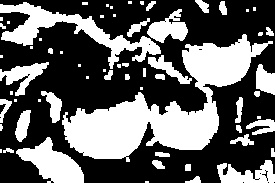
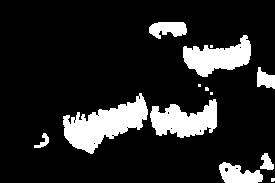
doing with bgr color space, acceptable

diff --git a/main.py b/main.py
@@ -30,30 +30,25 @@ for file in files:
         img = cv2.imread(os.path.join(input_path, file))
         if img is not None :
             # Select ROI
-            img_hsv = cv2.cvtColor(img, cv2.COLOR_BGR2HSV)
-            # img_hsv = img
-            r = cv2.selectROI(img_hsv)
+            r = cv2.selectROI(img)
             # Crop image
-            imCrop = img_hsv[int(r[1]):int(r[1] + r[3]), int(r[0]):int(r[0] + r[2])]
-            # 只取hue, saturation
-            img_hs = img_hsv[:, :, 0:2]
-            roi_hs = imCrop[:, :, 0:2]
-            average = average_of_image(roi_hs)
+            imCrop = img[int(r[1]):int(r[1] + r[3]), int(r[0]):int(r[0] + r[2])]
+            average = average_of_image(imCrop)
 
-            rows, cols, _ = img_hs.shape
-            output = np.zeros(img_hs.shape[0:2], img_hs.dtype)
+            rows, cols, _ = img.shape
+            output = np.zeros(img.shape[0:2], img.dtype)
             # 遍历图片
             for i in range(rows):
                 for j in range(cols):
-                    if distance(average, img_hs[i,j]) > 40:
+                    if distance(average, img[i, j]) > 50:
                         output[i, j] = 0
                     else:
                         output[i, j] = 255
 
             kernel = cv2.getStructuringElement(cv2.MORPH_RECT, (3, 3))
-            dilated = cv2.dilate(output, kernel)
-            cv2.imshow("final", dilated)
+            output = cv2.morphologyEx(output, cv2.MORPH_OPEN, kernel)
+            cv2.imshow("final", output)
             cv2.waitKey(0)
             filename = os.path.join(output_path, file)
-            cv2.imwrite(filename, dilated)
+            cv2.imwrite(filename, output)
 
